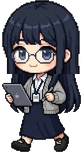
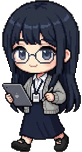
feat: 작은 사무실 애니메이션·모든 탭 머리 오른쪽·캐릭터 그림 다듬기(v0.7.63) (#466)
Claude-Session: https://claude.ai/code/session_01VDivpqgMUaCMRpdy4wQzAT

Changed region(s): [[0.0732, 0.3947, 0.1707, 0.5], [0.9024, 0.3947, 0.9756, 0.5], [0.2927, 0.4737, 0.3171, 0.5]]

diff --git a/src/App.tsx b/src/App.tsx
@@ -6,7 +6,7 @@ import { TurnMenu } from './components/TurnMenu';
 import { ThemeToggle } from './components/ThemeToggle';
 import { FlowStrip } from './components/FlowStrip';
 import type { Session, SupabaseClient } from '@supabase/supabase-js';
-import { useCallback, useEffect, useMemo, useRef, useState } from 'react';
+import { useCallback, useEffect, useLayoutEffect, useMemo, useRef, useState } from 'react';
 import { AgentRoster, ReviewLog } from './components/AgentPanel';
 import { DevlogPanel } from './components/DevlogPanel';
 import { ProjectHistory } from './components/ProjectHistory';
@@ -411,16 +411,42 @@ export function App() {
   const [mini, setMini] = useState(false);
   /** 2단계(v0.5.29 소유자): 더 내리면 사무실을 접고, 얇은 머리의 '사무실' 버튼으로 잠깐 띄워 본다 */
   const [tiny, setTiny] = useState(false);
+  // 휴대폰 폭(v0.7.63): 사무실을 숨기던 탭(업무·프로젝트·팀·설정·스킬)도 머리 오른쪽에 작은 사무실을 붙인다
+  const [narrow, setNarrow] = useState(() => typeof window !== 'undefined' && window.matchMedia('(max-width: 1039px)').matches);
   useEffect(() => {
+    const mq = window.matchMedia('(max-width: 1039px)');
+    const on = () => setNarrow(mq.matches);
+    mq.addEventListener('change', on);
+    return () => mq.removeEventListener('change', on);
+  }, []);
+  // 작은 사무실 자리 계산(v0.7.63 소유자 "부드럽게 작아지며 오른쪽 위로, 나올 때 반대로"): 위치를 바꾸지 않고 transform만 바꿔 애니메이션이 이어지게.
+  // 사무실 원래 상자(무대 안쪽) → 머리 오른쪽(높이 36px)으로 가는 이동·배율을 CSS 변수로 넘긴다
+  const docked = narrow && (tiny || !['chat', 'agent'].includes(tab));
+  useLayoutEffect(() => {
     const stage = stageEl.current;
     if (!stage) return;
-    // 사무실 원래 너비 = 무대 안쪽 너비(사무실이 고정 위치로 바뀌어도 무대 너비는 그대로), 높이 = 너비 × 0.747(배경 비율)
-    const cs = getComputedStyle(stage);
-    const w = stage.clientWidth - parseFloat(cs.paddingLeft || '0') - parseFloat(cs.paddingRight || '0');
-    if (w <= 0) return;
-    stage.style.setProperty('--office-w', `${w}px`);
-    stage.style.setProperty('--tiny-scale', String(36 / (w * 0.747)));
-  }, [mini, tiny, store]);
+    const place = () => {
+      const cs = getComputedStyle(stage);
+      const r = stage.getBoundingClientRect();
+      const pl = parseFloat(cs.paddingLeft || '0');
+      const pt = parseFloat(cs.paddingTop || '0');
+      const w = r.width - pl - parseFloat(cs.paddingRight || '0');
+      if (w <= 0) return;
+      // 붙어 있는(sticky) 무대는 고정된 높이(top)를 쓴다: 지금 스크롤 위치와 상관없이 접힌 뒤 자리
+      const top = (cs.position === 'sticky' ? parseFloat(cs.top || '0') : r.top) + pt;
+      const left = r.left + pl;
+      const s = 36 / (w * 0.747);
+      const bar = document.querySelector<HTMLElement>('.topbar-mini');
+      const safeTop = bar ? Math.max(0, parseFloat(getComputedStyle(bar).paddingTop || '10') - 10) : 0;
+      stage.style.setProperty('--office-w', `${w}px`);
+      stage.style.setProperty('--tiny-scale', String(s));
+      stage.style.setProperty('--tiny-x', `${window.innerWidth - 16 - w * s - left}px`);
+      stage.style.setProperty('--tiny-y', `${safeTop + 5 - top}px`);
+    };
+    place();
+    window.addEventListener('resize', place);
+    return () => window.removeEventListener('resize', place);
+  }, [mini, tiny, tab, narrow, store]);
   const [peek, setPeek] = useState(false);
   // 프로젝트 칸 '스킬'(v0.6.66): 스킬 모음과 프로젝트별 상태를 한 번 읽어 모든 프로젝트가 나눠 쓴다
   // 사무실 지도 팝업(역할·클라우드)
@@ -2037,7 +2063,7 @@ export function App() {
         </div>
       )}
 
-      <div className={`topbar-mini${barOn ? ' is-on' : ''}${tiny ? ' is-tiny' : ''}`} aria-hidden={!barOn}>
+      <div className={`topbar-mini${barOn ? ' is-on' : ''}${docked ? ' is-tiny' : ''}`} aria-hidden={!barOn}>
         <button type="button" tabIndex={barOn ? 0 : -1} onClick={() => window.scrollTo({ top: 0, behavior: 'smooth' })} title="맨 위로">
           minoffia. <span className="ver">v{version}</span>
         </button>
@@ -2050,7 +2076,7 @@ export function App() {
         {/* 사무실 띄워 보기는 모든 탭에서 오른쪽 아래 '…' 하나로(v0.6.79 소유자 "대화에서 사무실 일관성이 없다"): 얇은 머리의 '사무실 ▾'는 뺐다 */}
         {/* 지금 주고받는 장면(v0.7.62): 웹 조사·업무 넘겨주기가 있을 때만. 작은 사무실이 머리 오른쪽에 붙으면 그 자리를 비워 둔다 */}
         {barOn && <FlowStrip workflow={snap.workflow} />}
-        {tiny && <span className="bar-office-slot" aria-hidden="true" />}
+        {docked && <span className="bar-office-slot" aria-hidden="true" />}
         {/* 큰 머리 내용(연결·알림·사용량)을 펼쳐 본다(v0.5.31) */}
         <button type="button" className={`bar-btn bar-btn-usage${usageOpen ? ' is-on' : ''}`} tabIndex={barOn ? 0 : -1} aria-expanded={usageOpen} onClick={() => setUsageOpen((v) => !v)}>
           사용량 보기
@@ -2121,11 +2147,11 @@ export function App() {
           </span>
         )}
         <section
-          className={`stage${mini ? ' is-mini' : ''}${tiny ? ' is-tiny' : ''}${peek ? ' is-peek' : ''}`}
+          className={`stage${mini ? ' is-mini' : ''}${tiny ? ' is-tiny' : ''}${docked ? ' is-docked' : ''}${peek ? ' is-peek' : ''}`}
           aria-label="오피스"
           ref={stageEl}
           // v0.7.62: 머리 오른쪽의 작은 사무실을 누르면 크게 띄워 본다
-          onClickCapture={tiny && !peek ? (e) => { e.preventDefault(); e.stopPropagation(); setPeek(true); } : undefined}
+          onClickCapture={docked && !peek ? (e) => { e.preventDefault(); e.stopPropagation(); setPeek(true); } : undefined}
         >
           <OfficeView
             lamps={serviceLamps(snap.workflow, snap.aiCalls ?? [], store.mode === 'supabase')}

diff --git a/src/styles.css b/src/styles.css
@@ -7856,39 +7856,64 @@ html.popup-open .project-sections > details[open] * {
   gap: 8px 12px;
 }
 
-/* 대화를 크게 볼 때(v0.7.62 소유자 "사무실은 오른쪽 위 머리에 맞춰 조그맣게, 그 왼쪽에 AI가 주고받는 애니메이션") */
+/* 대화를 크게 볼 때(v0.7.62~63 소유자 "사무실은 오른쪽 위 머리에 맞춰 조그맣게, 부드럽게 작아지며 넘어가고 나올 때 반대로, 다른 탭도 똑같이"):
+   자리(position)는 그대로 두고 transform만 바꿔서 줄어들기·펴지기·띄우기가 모두 이어지는 애니메이션이 된다.
+   이동·배율(--tiny-x·--tiny-y·--tiny-scale)은 App.tsx가 사무실 원래 상자에서 계산한다 */
 @media (max-width: 1039px) {
-  .stage.is-tiny .office {
-    position: fixed;
-    top: calc(env(safe-area-inset-top, 0px) + 5px);
-    right: max(16px, env(safe-area-inset-right, 0px));
-    width: var(--office-w, 360px);
-    transform-origin: top right;
-    transform: scale(var(--tiny-scale, 0.1));
+  .stage .office {
+    transform-origin: top left;
+    transition: transform 0.32s cubic-bezier(0.2, 0.7, 0.2, 1), opacity 0.2s ease, visibility 0.2s, box-shadow 0.32s ease;
+  }
+  .stage.is-mini .office {
+    transform: translateX(calc(var(--office-w, 360px) * 0.25)) scale(0.5);
+  }
+  .stage.is-tiny .office,
+  .stage.is-docked:not(.is-peek) .office {
+    transform: translate(var(--tiny-x, 0px), var(--tiny-y, 0px)) scale(var(--tiny-scale, 0.1));
     opacity: 1;
     visibility: visible;
-    z-index: 61;
     pointer-events: auto;
     cursor: zoom-in;
-    border-radius: 18px;
-    box-shadow: 0 0 0 6px rgba(255, 255, 255, 0.5);
+    box-shadow: 0 0 0 8px rgba(255, 255, 255, 0.45);
   }
-  /* 무대(z 40)가 얇은 머리(z 60) 아래라 고정한 작은 사무실이 가렸다: 접힌 동안만 무대를 위로(무대 상자는 거의 높이 0) */
-  .stage.is-tiny:not(.is-peek) {
-    z-index: 61;
-    background: transparent;
-    box-shadow: none;
-  }
-  .stage.is-tiny.is-peek .office {
-    position: relative;
-    top: auto;
-    right: auto;
-    width: auto;
+  .stage.is-peek .office {
     transform: none;
     box-shadow: none;
     cursor: auto;
   }
-  /* 접힌 동안 머리 오른쪽은 작은 사무실 자리: 사용량·프로젝트 이름·밝기 버튼은 잠깐 숨긴다(설정 탭에 있음) */
+  /* 무대(z 40)가 얇은 머리(z 60) 아래라 작은 사무실이 가렸다: 접힌 동안만 무대를 위로(무대 바탕·그림자는 지움) */
+  .stage.is-tiny:not(.is-peek),
+  .stage.is-docked:not(.is-peek) {
+    z-index: 61;
+    background: transparent;
+    box-shadow: none;
+  }
+  .stage.is-tiny:not(.is-peek)::before,
+  .stage.is-docked:not(.is-peek)::before {
+    height: 0;
+    opacity: 0;
+  }
+  /* 사무실을 숨기던 탭: 위에 고정한 상자 안에서 사무실이 머리 오른쪽으로 접혀 있고, 띄우면(…·작은 사무실 누르기) 그 자리에서 펴진다 */
+  .layout.tab-tasks > .stage.is-docked,
+  .layout.tab-projects > .stage.is-docked,
+  .layout.tab-team > .stage.is-docked,
+  .layout.tab-settings > .stage.is-docked {
+    display: block;
+    position: fixed;
+    top: calc(var(--mini-h) + env(safe-area-inset-top, 0px) + 6px);
+    left: 8px;
+    right: 8px;
+    margin: 0;
+    padding: 0;
+    pointer-events: none;
+  }
+  .layout.tab-tasks > .stage.is-docked.is-peek,
+  .layout.tab-projects > .stage.is-docked.is-peek,
+  .layout.tab-team > .stage.is-docked.is-peek,
+  .layout.tab-settings > .stage.is-docked.is-peek {
+    z-index: 455;
+    pointer-events: auto;
+  }
   .topbar-mini.is-tiny .bar-btn-usage,
   .topbar-mini.is-tiny .topbar-project,
   .topbar-mini.is-tiny .theme-toggle {
@@ -7912,6 +7937,11 @@ html.popup-open .project-sections > details[open] * {
   }
   .topbar-mini.is-tiny .flow-strip + .bar-office-slot {
     margin-left: 0;
+  }
+}
+@media (max-width: 1039px) and (prefers-reduced-motion: reduce) {
+  .stage .office {
+    transition: opacity 0.15s ease;
   }
 }
 .flow-strip {

diff --git a/CHANGELOG.md b/CHANGELOG.md
@@ -1,5 +1,11 @@
 # 변경 기록
 
+## 작은 사무실 애니메이션·모든 탭·캐릭터 그림 다듬기(v0.7.63) — 2026-11-17
+
+- 소유자 "작은 사무실로 넘어갈 때 부드럽게 작아지며 우측 상단으로, 나올 때 반대로 / 다른 탭에서도 우측 상단 헤더에 똑같이 / …으로 띄울 때도 부드럽게": 위치를 바꾸던 방식을 transform 애니메이션으로 바꿨다(접히기 0.32초, 펴기·띄우기도 같은 길로). 업무·프로젝트·팀·설정·스킬 탭(휴대폰)도 사무실을 숨기지 않고 머리 오른쪽에 작게 두고, 누르거나 …로 띄우면 그 자리에서 펴진다. 동작 줄이기 설정이면 움직임 없이.
+- 소유자 "제미나이 돋보기 안쪽은 복구, 돋보기와 얼굴 사이 흰색이 문제": 렌즈는 원래대로, 렌즈와 얼굴 사이의 흰 배경 덩어리를 지웠다.
+- 소유자 "클로드 머리 끝이 부자연스럽게 찍혀, 이음매 더 연결": 얼굴 높이에서 일자로 끊기던 머리를 위에서 아래까지 바깥선이 비스듬히 이어지게 다듬고 이음매 줄 색을 섞었다.
+
 ## 검색 사용 기록·머리의 작은 사무실과 주고받기 줄·캐릭터 그림 정리(v0.7.62) — 2026-11-17
 
 - 소유자 "한도가 추적이 안 되는 듯": 웹 조사 3번이 성공했는데 Tavily·Firecrawl 사용 기록이 0줄이었다. 여러 줄을 한 번에 넣을 때 줄마다 칸 구성이 달라(성공 줄엔 오류 칸 없음) NOT NULL 칸에서 통째로 실패했다. 모든 줄을 같은 칸으로 맞추고, 실패하면 서버 기록에 남긴다.
